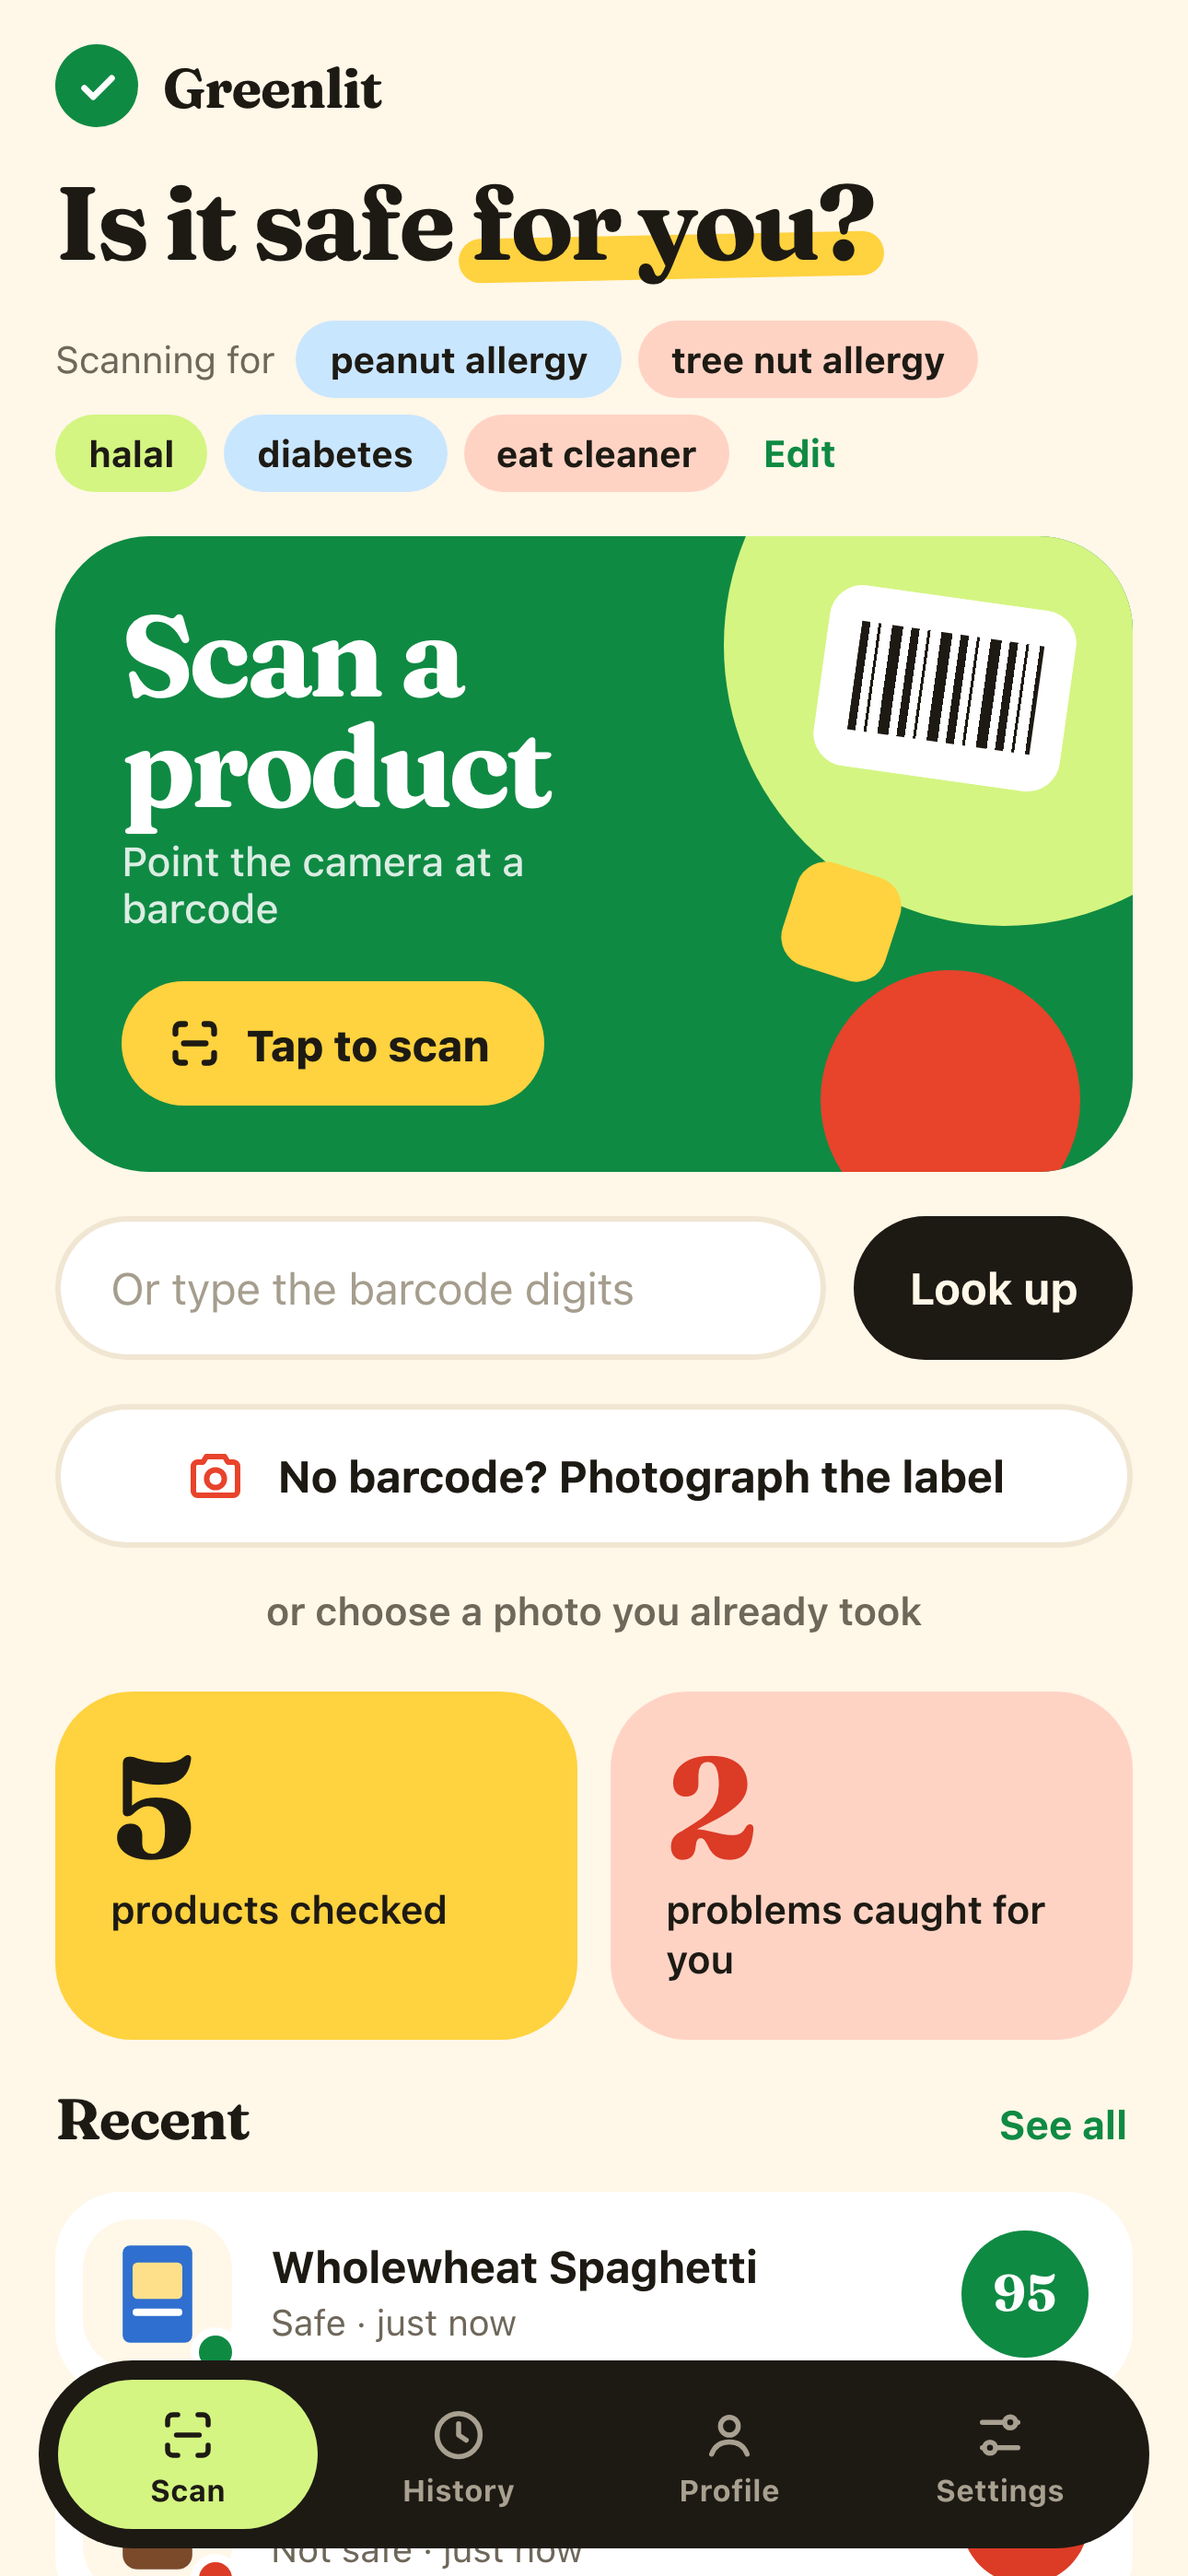
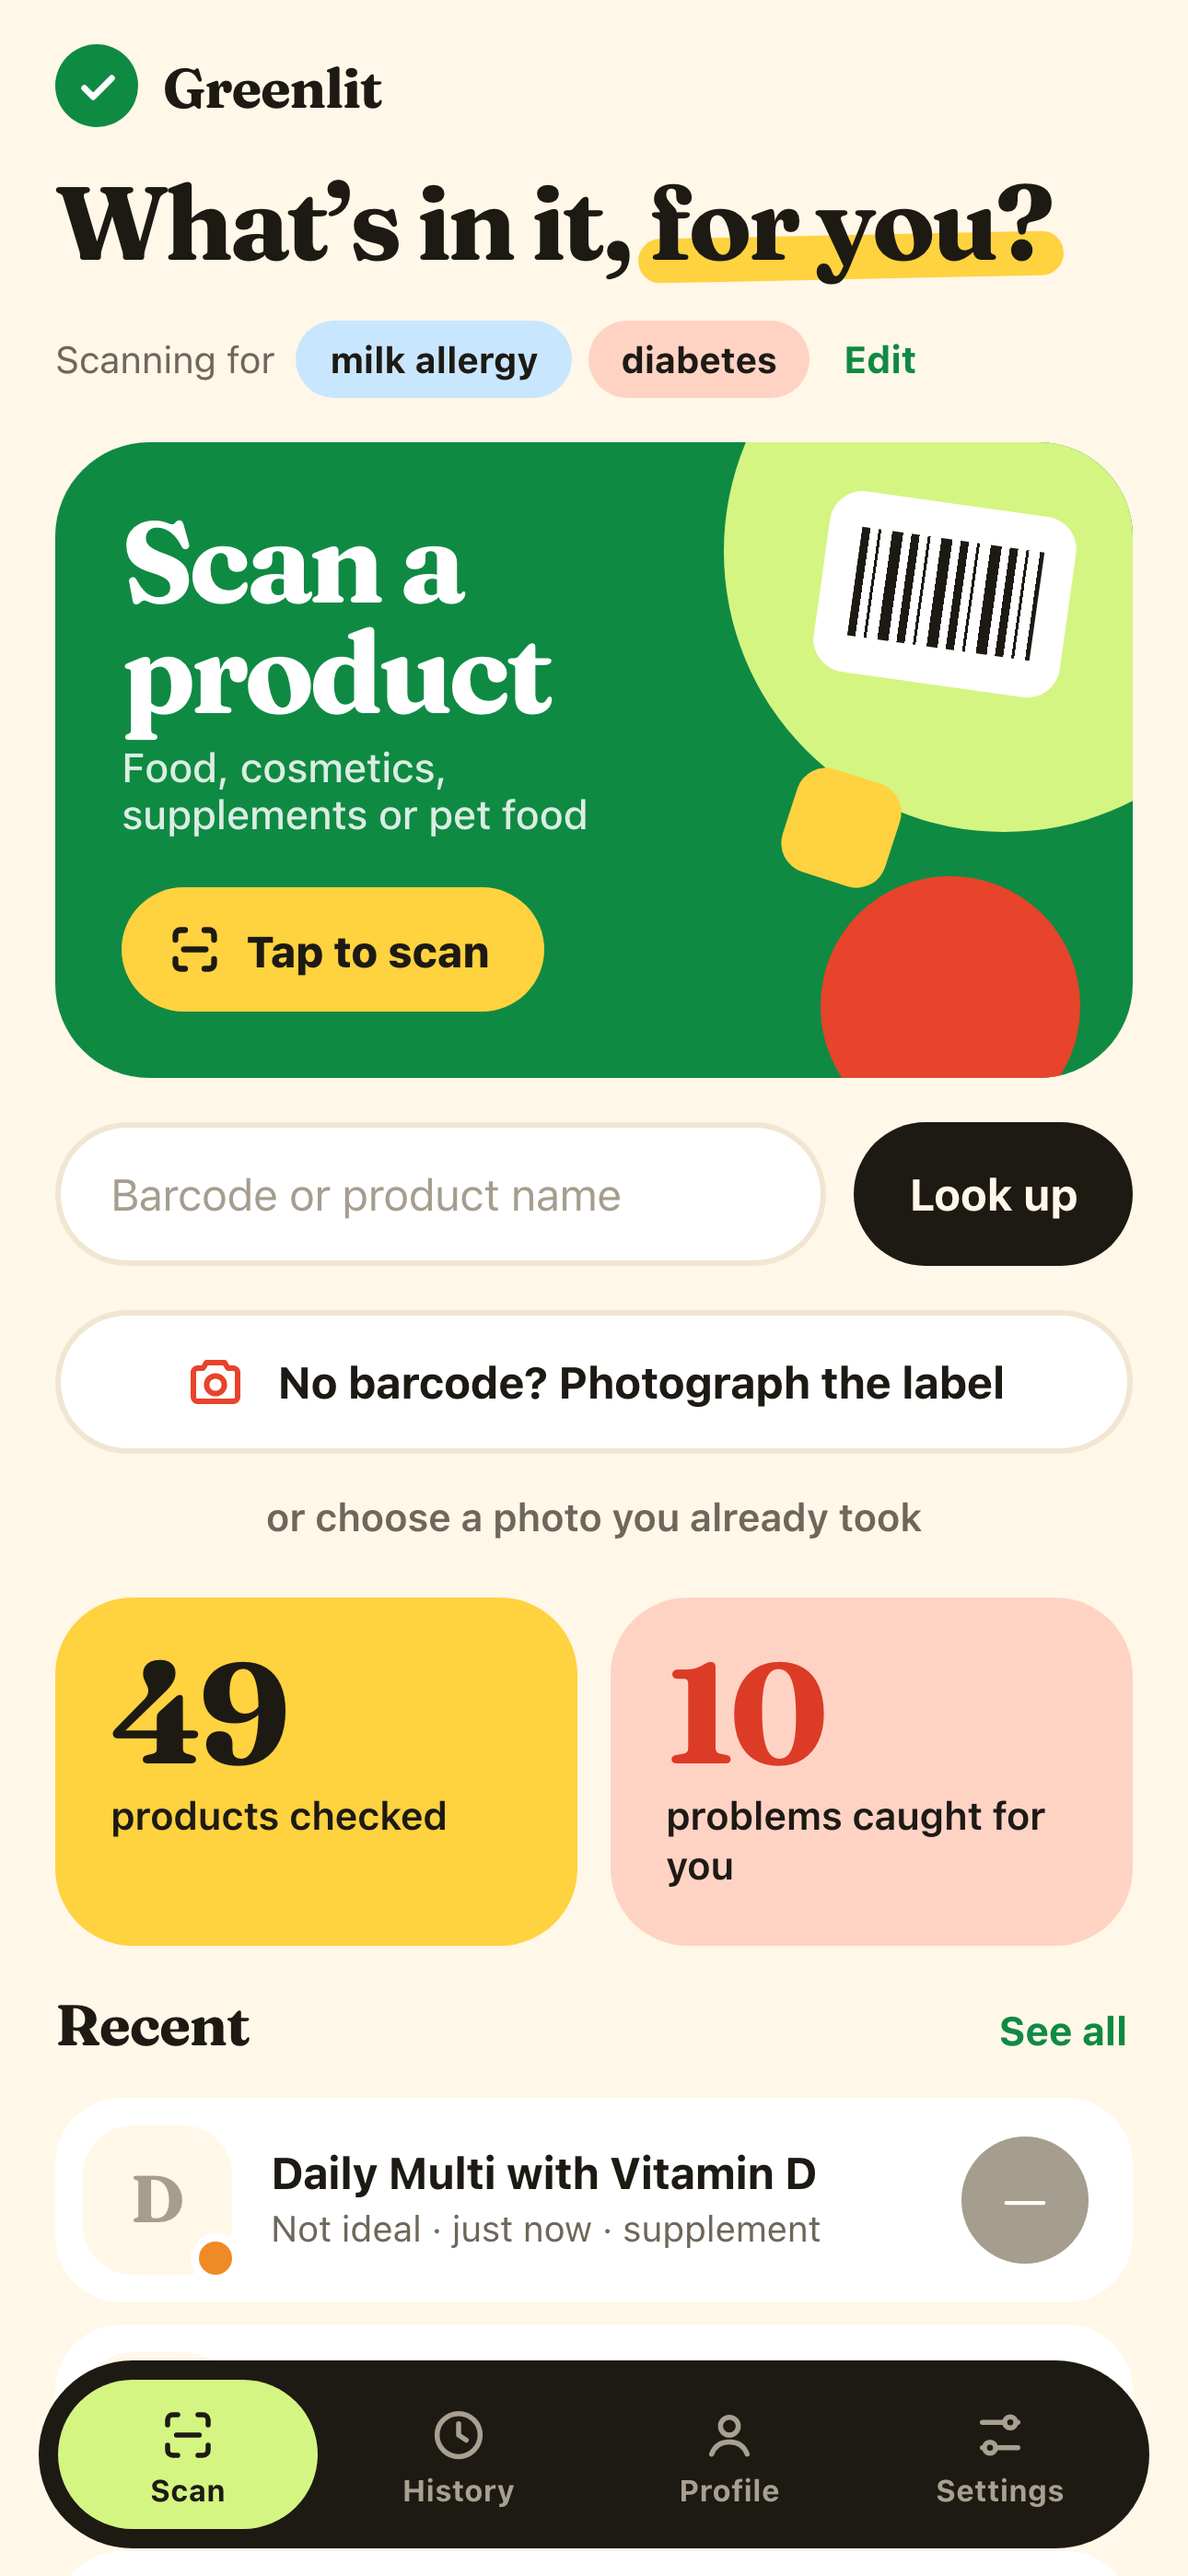
New store screenshots and listing text for the reworded app
Screenshots are produced by store/make-screenshots.mjs from the running
app with invented products: home, family result, not-ideal, score,
cosmetics, supplement doses and profile, at App Store and Play sizes.
Also fixes "Peanuts is not" to "Peanuts are not".

Claude-Session: https://claude.ai/code/session_012ctqf7TTWw79tVxM8syMbN

diff --git a/src/engine/verdict.ts b/src/engine/verdict.ts
@@ -484,7 +484,7 @@ export function computeVerdict(product: ProductData, profile: Profile): Verdict 
     return { level: 'caution', reasons: [...concerns, ...avoid], warnings: warnings.filter((w) => !avoid.includes(w)) };
   }
   if (needs.length && hasText) {
-    return { level: 'safe', reasons: [`${capital(listOf(needs))} ${needs.length > 1 ? 'are' : 'is'} not in the ingredient list or the allergen tags${fromPhoto ? ' read from your photo' : ''}.`], warnings };
+    return { level: 'safe', reasons: [`${capital(listOf(needs))} ${needs.length > 1 || /s$/.test(needs[0]) ? 'are' : 'is'} not in the ingredient list or the allergen tags${fromPhoto ? ' read from your photo' : ''}.`], warnings };
   }
   return { level: 'safe', reasons: ['No problems found for your profile.'], warnings };
 }

diff --git a/e2e/app.spec.ts b/e2e/app.spec.ts
@@ -44,7 +44,7 @@ test('barcode → verdict → score, for each kind of answer', async ({ page }, 
   await lookup(page, '8076800195057');
   // An allergy is in the profile: the app reports what it checked and never promises "safe".
   await expect(page.locator('.verdict__title')).toHaveText('No allergens found');
-  await expect(page.locator('.verdict__reasons')).toContainText('Tree nuts is not in the ingredient list');
+  await expect(page.locator('.verdict__reasons')).toContainText('Tree nuts are not in the ingredient list');
   await expect(page.locator('.verdict__warning').first()).toContainText('read the pack every time');
   await expect(page.locator('.verdict__action')).toContainText('Check against my pack');
   await expect(page.locator('#score-num')).toHaveText('90');

diff --git a/src/main.ts b/src/main.ts
@@ -770,7 +770,7 @@ function scanView(): string {
     : `<button class="btn btn--primary btn--scan" data-action="scan-start" ${busy ? 'disabled' : ''}>
         <span class="hero__art" aria-hidden="true"><i></i><i></i><i></i><b></b></span>
         <span class="hero__title">Scan a<br />product</span>
-        <small>Food, cosmetics or pet food</small>
+        <small>Food, cosmetics, supplements or pet food</small>
         <span class="hero__cta">${icon('scan')}Tap to scan</span>
       </button>`;
 

diff --git a/store/app-store.md b/store/app-store.md
@@ -10,16 +10,17 @@ against Apple's pages today. App Store Connect shows the exact limits as you typ
 - Devices: iPhone only
 
 ## Name (max 30)
-Greenlit: Food Scanner
+Greenlit: Ingredient Scanner
+(28 characters. Owner has not confirmed the name: alternatives are "Greenlit: Label Scanner" or keeping "Greenlit: Food Scanner".)
 
 ## Subtitle (max 30)
-Is it safe for you?
+Food, cosmetics, supplements
 
 ## Promotional text (max 170)
-Scan any food and get an answer made for you: safe or not for your allergies and diet, a personal health score, and a plain-English reason why. Free, no account.
+Scan food, cosmetics, supplements or pet food and see what's in it, checked against your allergies, diet, family and pets, with the source for every flag. Free, no account.
 
 ## Keywords (max 100, comma separated, no spaces)
-allergy,halal,vegan,gluten,nutrition,ingredients,barcode,diabetes,kosher,additives,lactose,coeliac
+allergy,halal,vegan,gluten,barcode,cosmetics,supplement,vitamins,pet,baby,diabetes,kosher,e-number
 
 ## Description
 Use the "Full description" text from `store/listing.md` (same app, same wording).
@@ -63,9 +64,11 @@ The build already declares `ITSAppUsesNonExemptEncryption = NO` (only standard H
 
 ```
 Greenlit needs no account. All core features work immediately:
-1. Open the app, tap "Skip for now" (or set up a profile).
+1. Open the app and tap "Start scanning" (or set up a profile first).
 2. Tap a sample product under "Try a sample product", or type barcode 3017620422003 and tap Look up.
-3. You get a safety verdict, a personal score, and a "Why" explanation.
+3. You see how the listed ingredients fit the profile, a personal score for food, and a "Why" explanation with named, linked sources.
+   The app describes ingredients against the user's stated needs and published guidance. It does not rate products as safe or unsafe;
+   every rule and source is listed at https://yoginoit39.github.io/safeforme-app/how.html
 4. "Scan a product" uses the camera to read barcodes on the device.
 
 Two optional extras ("AI extras": photographing a label, and an AI explanation of ingredients)
@@ -83,7 +86,7 @@ Without a key the reviewer cannot try the optional extras, which is a common rea
 ## Things Apple may ask about
 - **Guideline 4.2 (minimum functionality / web wrapper):** the app uses the camera, works offline for saved scans,
   processes everything on the device and has native haptics. If questioned, say exactly that.
-- **Guideline 1.4.1 (health):** information only, sources named, disclaimers on every result.
+- **Guideline 1.4.1 (health):** information only, no safety verdicts, sources named and linked, disclaimers on every result. Supplement dose checks use official upper intake levels (Health Canada / US National Academies); child guidance restates US CDC and UK NHS pages; infant formula is never scored or compared. Full method: how.html.
 - **Guideline 5.1.1 (privacy):** no account, no tracking, privacy policy linked in the app.
 
 ## Tonight, in order

diff --git a/store/listing.md b/store/listing.md
@@ -66,7 +66,7 @@ Food & Drink (alternative: Health & Fitness)
 ## Graphics (in this folder)
 - icon-512.png — app icon
 - feature-graphic.png — 1024×500 banner
-- screenshots/1-home … 6-profile — 1200×2400 phone screenshots (made-up products, no real brands)
+- screenshots/ — 1200×2400 phone screenshots: 1-home, 2-family, 3-not-ideal, 3b-score, 4-cosmetics, 5-supplement, 6-profile (invented products, no real brands). Remake with: node store/make-screenshots.mjs
 
 ## Declarations — suggested answers (confirm each in Play Console)
 - Privacy policy URL: https://yoginoit39.github.io/safeforme-app/privacy.html
